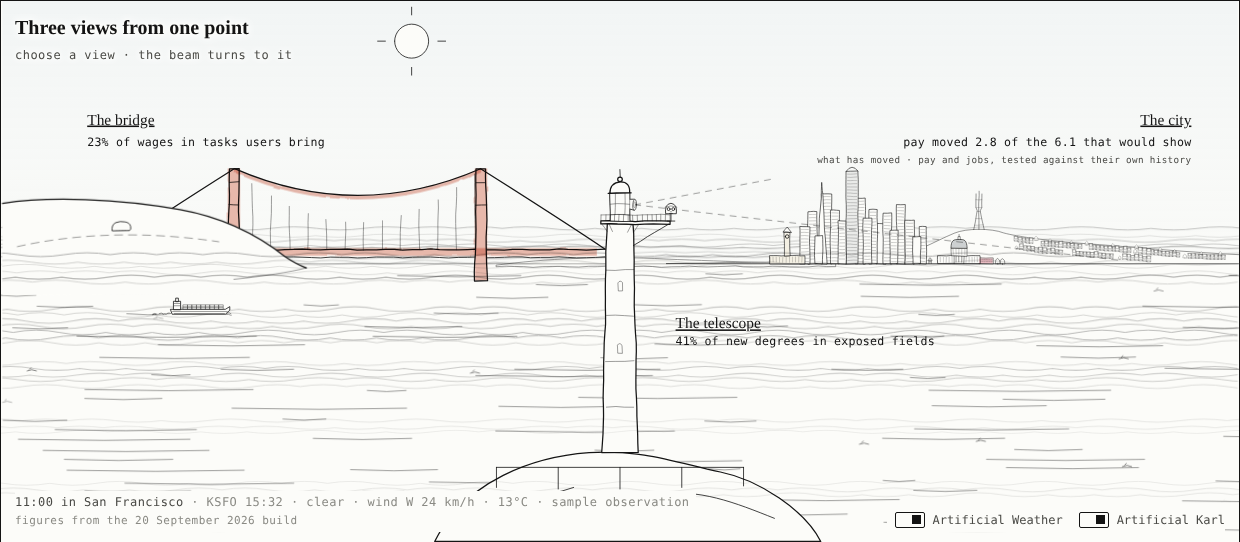
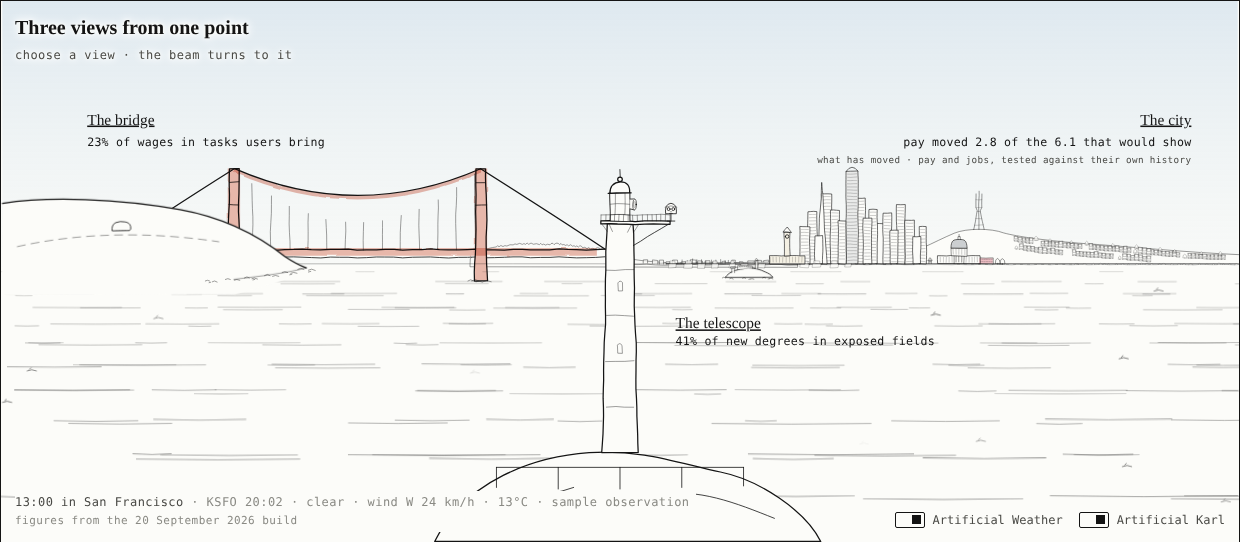
Front page: the Presidio bluff and the Marina joining the bridge to the city; Alcatraz in the middle distance; the bay in perspective; piers, seawall and a rocky shore at the city's foot; red lights for aircraft on Sutro, the pyramid, the tallest tower and the bridge towers, white lights on Alcatraz

diff --git a/docs/mockup/index.html b/docs/mockup/index.html
@@ -105,6 +105,13 @@ header.top{display:flex;align-items:baseline;justify-content:space-between;gap:1
 .stage:not([data-view="home"]) .fg .hot,.stage[data-view="valley"] .beam{display:none}
 .stage:not([data-view="home"]) .beam path{opacity:.4}
 .halo{fill:var(--gold);stroke:none;opacity:0;transition:opacity .6s}
+.avlight,.shiplight{opacity:0}
+.dusk .avlight,.night .avlight{animation:av 2s steps(1) infinite}
+@keyframes av{0%{opacity:1}45%{opacity:.08}}
+.dusk .shiplight,.night .shiplight{animation:shipflash 5s steps(1) infinite}
+@keyframes shipflash{0%{opacity:1}10%{opacity:0}}
+.night .lens{animation:occult 4s ease-in-out infinite}
+@keyframes occult{0%,78%,100%{fill-opacity:1}86%{fill-opacity:.25}}
 .lens{fill:var(--paper)}.dusk .lens{fill:#FBE9B5}.night .lens{fill:#FFF2C2;filter:url(#lamp)}
 .nightlight{opacity:0;transition:opacity 1.2s}
 .dusk .nightlight{opacity:.45}
@@ -365,9 +372,11 @@ header.top{display:flex;align-items:baseline;justify-content:space-between;gap:1
   /* ---------- line work ---------- */
   function water(g, x0, x1, y0, y1, seed, dens){
     const r = rng(seed);
-    for (let y = y0; y < y1; y += dens){
-      for (let x = x0 + r()*300; x < x1; x += 340 + r()*420){ const l = 40 + r()*200; el("path", {d:`M${x} ${y + (r()-.5)*4} q ${l/2} 3 ${l} 0`}, g); }
-    }
+    for (let y = y0; y < y1; ){
+      const near = Math.max(0, Math.min(1, (y - 340)/360));                   // 0 at the horizon, 1 at the foot of the frame
+      for (let x = x0 + r()*300; x < x1; x += (180 + r()*260)*(.5 + near)){ const l = (40 + r()*200)*(.3 + near*1.1);
+        el("path", {d:`M${x.toFixed(1)} ${(y + (r()-.5)*4*near).toFixed(1)} q ${(l/2).toFixed(1)} ${(3*near).toFixed(1)} ${l.toFixed(1)} 0`, style:`opacity:${(.45 + near*.55).toFixed(2)}`}, g); }
+      y += dens*(.28 + near*1.5); }
   }
   function fog(g, bands, seed){
     const r = rng(seed);
@@ -486,9 +495,19 @@ header.top{display:flex;align-items:baseline;justify-content:space-between;gap:1
   (function crests(){ const r = rng(19); for (let i=0;i<12;i++){ const x = r()*W, y = 360 + r()*320; const c = el("path", {d:`M${x} ${y} q 6 -3 12 0 M${x+3} ${y-2} l 2 -2`, class:"crest thin"}, waterG); c.style.animationDelay = (-r()*4).toFixed(2) + "s"; c.style.animationDuration = (3 + r()*3).toFixed(2) + "s"; } })();
   // the Marin headland, near, drawn over the water so the bay ends at its foot; the road out to the point on it
   const headland = el("g", {}); waterG.parentNode.insertBefore(headland, fogG);
+  (function alcatraz(g){
+    // a steep-sided rock, flat on top, the long cellhouse along its crest, the lighthouse at its south end, the water tower low on the north
+    const P = "fill:var(--paper)";
+    el("path", {d:"M 934 358 L 937 353 L 941 351 L 944 347 L 950 346 L 953 342 L 972 341 L 976 343 L 983 344 L 987 348 L 991 350 L 994 354 L 998 358 Z", class:"thin", style:P}, g);
+    el("path", {d:"M 941 351 L 947 352 M 987 348 L 982 350 M 950 346 L 955 349", class:"hair"}, g);                  // ledges on the cliffs
+    el("path", {d:"M 954 342 L 954 336 L 972 336 L 972 341", class:"hair", style:P}, g);                              // the cellhouse
+    for (let u = 956; u < 971; u += 2.6) el("path", {d:`M ${u.toFixed(1)} 338.2 l 1.2 0`, class:"hair"}, g);
+    el("path", {d:"M 975 343 L 975.4 331 L 978.2 331 L 978.6 343 M 974.6 331 L 978.9 331 L 976.8 328.6 Z", class:"hair", style:P}, g);   // its lighthouse
+    el("path", {d:"M 943.5 347 L 943.5 342 M 947.5 347 L 947.5 342 M 942.5 342 L 948.5 342 L 948.5 339 L 942.5 339 Z", class:"hair", style:P}, g);   // the water tower on its legs
+  })(headland);
   // where something solid stands in the water, the water breaks around it, and keeps breaking
   (function foam(){
-    const g = $("#foam"), spots = [[620, 362, 1.2, "tower"], [612, 362, .9, "tower"], [394, 347, 1, "shore"], [372, 351, .9, "shore"], [348, 355, .9, "shore"], [322, 358, .8, "shore"], [298, 360, .8, "shore"], [270, 362, .7, "shore"]];
+    const g = $("#foam"), spots = [[620, 362, 1.2, "tower"], [612, 362, .9, "tower"], [940, 358, .5, "island"], [966, 358.5, .5, "island"], [992, 358, .5, "island"], [394, 347, 1, "shore"], [372, 351, .9, "shore"], [348, 355, .9, "shore"], [322, 358, .8, "shore"], [298, 360, .8, "shore"], [270, 362, .7, "shore"]];
     const draw = () => { const r = Math.random; let d = "";
       for (const [x, y, k] of spots){
         d += ` M ${(x - 9*k - r()*3).toFixed(1)} ${(y + .5).toFixed(1)} q ${(4*k).toFixed(1)} ${(-2.4*k - r()*1.2).toFixed(1)} ${(8*k).toFixed(1)} 0`;
@@ -519,7 +538,19 @@ header.top{display:flex;align-items:baseline;justify-content:space-between;gap:1
   fog(el("g", {style:"opacity:.5"}, $("#fognear")), [[545, 4, 3],[625, 5, 3]], 31);   // in front of the lighthouse, the boats and the whale
 
   // the Presidio's low shore at the Gate's south end, running on to the city
-  el("path", {d:"M 640 342 C 700 334, 780 330, 860 334 C 940 338, 1030 340, 1080 340 L 1080 344 L 640 344 Z", style:"fill:var(--paper)", class:"hair"}, far);
+  (function presidio(g){
+    const rr = rng(211);
+    // the bluff: rising out of the water just past the south tower, crowned with trees, then easing down to the Marina flats
+    let d = "M 606 344 L 606 334 C 614 326, 626 320, 640 318", x = 640;
+    const crown = u => u < 740 ? 318 - Math.sin((u-640)/100*Math.PI)*3 : 318 + (u-740)*.12;
+    while (x < 780){ const w = 3 + rr()*5; d += ` Q ${(x + w/2).toFixed(1)} ${(crown(x) - 1.5 - rr()*2.5).toFixed(1)} ${(x + w).toFixed(1)} ${crown(x + w).toFixed(1)}`; x += w; }
+    d += " C 800 334, 830 338, 870 339 L 1030 340 L 1030 344 Z";
+    el("path", {d, class:"hair", style:"fill:var(--paper)"}, g);
+    // the Marina: low buildings along the flat, a row of masts in the harbour, the seawall
+    for (let u = 830; u < 1010; u += 7 + rr()*6){ const h = 2 + rr()*3, w = 4 + rr()*4; el("path", {d:`M ${u.toFixed(1)} 340 L ${u.toFixed(1)} ${(340 - h).toFixed(1)} L ${(u + w).toFixed(1)} ${(340 - h).toFixed(1)} L ${(u + w).toFixed(1)} 340`, class:"hair", style:"fill:var(--paper)"}, g); }
+    for (let u = 880; u < 940; u += 4 + rr()*3) el("path", {d:`M ${u.toFixed(1)} 340 l 0 ${(-3 - rr()*3).toFixed(1)}`, class:"hair"}, g);
+    el("path", {d:"M 800 341.5 L 1030 341.5", class:"hair"}, g);
+  })(far);
   // the Gate, across the middle distance
   suspension(far, 300, 620, 322, 105, 70);
   tintRect(washes, 150, 320, 620, 10, "var(--orange)");                                              // the deck
@@ -578,6 +609,14 @@ header.top{display:flex;align-items:baseline;justify-content:space-between;gap:1
     // the hydrant on the Embarcadero, in front of the towers, where the robotaxi meets it
     el("path", {d:`M ${ox+HYD-3} ${gy} L ${ox+HYD-3} ${gy-14} Q ${ox+HYD} ${gy-18} ${ox+HYD+3} ${gy-14} L ${ox+HYD+3} ${gy} M ${ox+HYD-6} ${gy-9} L ${ox+HYD+6} ${gy-9} M ${ox+HYD-3} ${gy-5} L ${ox+HYD+3} ${gy-5}`, class:"thin"}, g);
     // Ferry Building on the waterfront
+    { const rf = rng(131), P = "fill:var(--paper)";
+      el("path", {d:`M ${ox-40} ${b0+3} L ${ox+1580} ${b0+3}`, class:"hair"}, g);                                  // the seawall's face
+      for (let u = 1060; u < 1560; u += 34 + rf()*16){ if (Math.abs(u - 1240) < 40) continue; const w = 16 + rf()*8, l = 8 + rf()*6;   // piers, running out into the water
+        el("path", {d:`M ${ox+u} ${b0} L ${ox+u+w} ${b0} L ${ox+u+w+2} ${b0+l} L ${ox+u+2} ${b0+l} Z`, class:"hair", style:P}, g);
+        if (rf() < .6) el("path", {d:`M ${ox+u+3} ${b0} L ${ox+u+3} ${b0-7} L ${ox+u+w-3} ${b0-7} L ${ox+u+w-3} ${b0}`, class:"hair", style:P}, g); }
+      for (let u = -30; u < 420; u += 10 + rf()*14){ const w = 5 + rf()*7, h = 2 + rf()*3;                          // where the hills reach the water: rocks, and a strip of beach
+        el("path", {d:`M ${ox+u} ${b0+3} q ${w*.3} ${-h} ${w*.6} ${-h*.8} q ${w*.3} ${h*.2} ${w*.4} ${h*.8}`, class:"hair", style:P}, g); }
+      el("path", {d:`M ${ox+420} ${b0+2} C ${ox+520} ${b0+4}, ${ox+640} ${b0+4}, ${ox+760} ${b0+2}`, class:"hair", "stroke-dasharray":"2 5"}, g); }
     el("path", {d:`M ${ox+1190} ${baseY-8} L ${ox+1190} ${baseY-30} L ${ox+1290} ${baseY-30} L ${ox+1290} ${baseY-8} Z`, style:"fill:var(--paper)"}, g);
     for (let x=ox+1198; x<ox+1290; x+=9) el("path", {d:`M${x} ${baseY-26} L ${x} ${baseY-12}`, class:"hair"}, g);
     el("path", {d:`M ${ox+1232} ${baseY-30} L ${ox+1232} ${baseY-96} L ${ox+1248} ${baseY-96} L ${ox+1248} ${baseY-30} Z M ${ox+1229} ${baseY-96} L ${ox+1251} ${baseY-96} L ${ox+1240} ${baseY-110} Z`, style:"fill:var(--paper)"}, g);
@@ -629,9 +668,21 @@ header.top{display:flex;align-items:baseline;justify-content:space-between;gap:1
     el("ellipse", {cx:ox+1057, cy:baseY-276, rx:22, ry:16, class:"nightlight", filter:"url(#glow)", style:"fill:#9FB7C9;stroke:none"}, L);
     tintRect(L, ox+1041, baseY-290, 32, 30, "#9FB7C9").classList.add("nightlight");
     const grid = el("g", {class:"nightlight"}, L); const r = rng(59);
+    // red lights for aircraft: Sutro's three masts, the pyramid's tip, the tallest tower's crown; each blinks steadily, out of step with the others
+    const red = (g_, x, y, r = 3) => { const c = el("circle", {cx:x, cy:y, r, class:"avlight lamp", style:"fill:#FF2A1F;stroke:none"}, g_);
+      c.style.animationDuration = (1.8 + Math.random()*.7).toFixed(2) + "s"; c.style.animationDelay = (-Math.random()*3).toFixed(2) + "s"; };
+    red(L, ox+700, baseY-104-108); red(L, ox+692, baseY-104-100, 2.6); red(L, ox+708, baseY-104-100, 2.6);
+    red(L, ox+1142, baseY-238); red(L, ox+1057, baseY-282);
     for (let i=0;i<4;i++) for (let j=0;j<5;j++){ const b = el("rect", {x:ox+1044+i*7, y:baseY-286+j*6, width:5, height:4, class:"crownblock", style:`fill:#9FB7C9;stroke:none`}, grid); b.style.animationDelay = (-r()*9).toFixed(1) + "s"; }
   }
   drawLights(new Date());
+  // on the bridge's two tower tops, red for aircraft; on Alcatraz, a white light for ships
+  (function sceneLights(){
+    const g = el("g", {}, $("#L-lights .zoom"));
+    for (const x of [300, 620]) for (const dx of [-5, 5]){ const c = el("circle", {cx:x + dx, cy:215, r:1.6, class:"avlight lamp", style:"fill:#FF2A1F;stroke:none"}, g);
+      c.style.animationDuration = (1.9 + Math.random()*.6).toFixed(2) + "s"; c.style.animationDelay = (-Math.random()*3).toFixed(2) + "s"; }
+    const a = el("circle", {cx:976.8, cy:330.4, r:1.4, class:"shiplight lamp", style:"fill:#FFFFFF;stroke:none"}, g); a.style.animationDelay = (-Math.random()*5).toFixed(2) + "s";
+  })();
 
   /* ---------- the coin viewer, small and large ---------- */
   function viewer(g, s){
@@ -993,15 +1044,22 @@ header.top{display:flex;align-items:baseline;justify-content:space-between;gap:1
   const LABELS = [[90, 100, 600, 222], [990, 100, 1570, 222]];
   // The sky's own colour: the faintest wash, blue by day, warm at the horizon around dawn and dusk, a deep
   // blue at night. Each is a pair of stops keyed to the sun's altitude and blended between the keys.
+  // by the sun's height: pale and hazy low in the sky, fuller and deeper blue overhead as it climbs
   const SKYKEYS = [[-18, ["#1B2238", .3, "#1B2238", .12]], [-7, ["#7A7CA6", .2, "#E9A27A", .16]], [-1, ["#C4BEDD", .2, "#F2B48C", .22]],
-                   [6, ["#BFD3E6", .16, "#F4C9A6", .1]], [16, ["#BFD3E6", .16, "#DCE7EF", .06]]];
+                   [6, ["#BFD3E6", .15, "#F4C9A6", .1]], [18, ["#B6CEE4", .17, "#E4ECF1", .06]], [34, ["#9DBFDF", .22, "#D6E4EE", .07]], [58, ["#86B0DA", .27, "#CADDEC", .08]]];
   function hexLerp(a, b, t){ const A = a.match(/\w\w/g).map(h=>parseInt(h,16)), B = b.match(/\w\w/g).map(h=>parseInt(h,16)); return "#" + A.map((v,i)=>Math.round(v + (B[i]-v)*t).toString(16).padStart(2,"0")).join(""); }
-  function skyColour(sun){
+  function skyColour(sun, key){
     const a = Math.max(SKYKEYS[0][0], Math.min(SKYKEYS[SKYKEYS.length-1][0], sun.alt)); let i = 0; while (i < SKYKEYS.length-2 && a > SKYKEYS[i+1][0]) i++;
     const [a0, k0] = SKYKEYS[i], [a1, k1] = SKYKEYS[i+1], t = (a - a0)/(a1 - a0);
     const top = $("#sky-top"), low = $("#sky-low");
     top.setAttribute("stop-color", hexLerp(k0[0], k1[0], t)); top.setAttribute("stop-opacity", (k0[1] + (k1[1]-k0[1])*t).toFixed(3));
     low.setAttribute("stop-color", hexLerp(k0[2], k1[2], t)); low.setAttribute("stop-opacity", (k0[3] + (k1[3]-k0[3])*t).toFixed(3));
+    // late in the day, a little warmth low down
+    if (sun.az > 180 && sun.alt > 6 && sun.alt < 30){ const w = 1 - (sun.alt - 6)/24; low.setAttribute("stop-color", hexLerp(low.getAttribute("stop-color"), "#F1DCC4", .5*w)); }
+    // then the weather: overcast lifts the sky toward a pale white-grey, a storm or rain lowers it to grey; light cloud keeps the day's blue
+    const over = { overcast:["#E7E7E3", .6, .1], fog:["#ECECE8", .6, .12], "thick fog":["#EFEFEC", .8, .14], rain:["#A9ADB2", .6, .24], storm:["#7E858E", .85, .34] }[key];
+    if (over && sun.alt > -6){ const [c, f, op] = over;
+      for (const st of [top, low]){ st.setAttribute("stop-color", hexLerp(st.getAttribute("stop-color"), c, f)); st.setAttribute("stop-opacity", Math.max(+st.getAttribute("stop-opacity"), op).toFixed(3)); } }
   }
   let current = { preset:"fog", rainLevel:0 };
   function drawSky(o, view){
@@ -1035,7 +1093,7 @@ header.top{display:flex;align-items:baseline;justify-content:space-between;gap:1
     const now = sfNow(), sun = sunPosition(now), phase = moonPhase(now), moon = sunPosition(now, phase*360, Math.cos(phase*2*Math.PI));
     document.querySelectorAll(".sunwash,.dawn,.sun,.moon").forEach(n=>n.remove());
     const night = sun.alt < -6, dusk = !night && sun.alt < 4;
-    skyColour(sun);
+    skyColour(sun, key);
     document.documentElement.dataset.theme = night ? "dark" : "light";
     stage.classList.toggle("night", night); stage.classList.toggle("dusk", dusk);
     drawLights(now);
@@ -1205,13 +1263,14 @@ header.top{display:flex;align-items:baseline;justify-content:space-between;gap:1
       const dome = el("circle", {cx:2, cy:-18, r:1.2, class:"solid"}, car); let d = 0; const spin = setInterval(()=>{ dome.setAttribute("cx", 2 + Math.cos(d+=.6)*3); }, 80);
       // the water, from the drawn hydrant's cap, pouring toward the car
       const spout = el("g", {class:"thin", transform:`translate(${hx},${hy}) scale(${-k},${k})`}, life); spout.style.opacity = 0;
-      const sprayD = i => { const j = .85 + Math.random()*.3, h = (14 + i*3)*j, r = (14 + i*4)*(.9 + Math.random()*.2); return `M0 -17 q ${(r*.45).toFixed(1)} ${(-h).toFixed(1)} ${r.toFixed(1)} ${(-2 + i*2).toFixed(1)} M${(r + Math.random()*2).toFixed(1)} ${(-1 + i*2 + Math.random()*3).toFixed(1)} l ${(Math.random()*1.5).toFixed(1)} ${(2 + Math.random()*2).toFixed(1)}`; };
+      let flow = 1;
+      const sprayD = i => { const j = (.85 + Math.random()*.3)*flow, h = (14 + i*3)*j, r = (14 + i*4)*(.9 + Math.random()*.2)*(.35 + .65*flow); return `M0 -17 q ${(r*.45).toFixed(1)} ${(-h).toFixed(1)} ${r.toFixed(1)} ${(-2 + i*2).toFixed(1)} M${(r + Math.random()*2).toFixed(1)} ${(-1 + i*2 + Math.random()*3).toFixed(1)} l ${(Math.random()*1.5).toFixed(1)} ${(2 + Math.random()*2).toFixed(1)}`; };
       const arcs = []; for (let i=0;i<9;i++) arcs.push(el("path", {d:sprayD(i)}, spout));
       const spray = setInterval(()=>{ if (!spout.isConnected) return clearInterval(spray); arcs.forEach((a, i) => a.setAttribute("d", sprayD(i))); }, 110);
       const stop = hx + 20*S;
       const drive = 11000*(.85 + Math.random()*.3);
-      tween(drive, k=>{ const x = x0 + Math.min(k*1.12, 1)*(stop-x0); const bump = k > .89 ? Math.sin((k-.89)*70)*2.5*(1-k)/.11 : 0; g.setAttribute("transform", `translate(${x+bump},${y})`); if (k > .86) car.classList.add("braking"); if (k > .89) spout.style.opacity = Math.min(1, (k-.89)*12); },
-        ()=>{ tween(2200, k=>{ spout.style.opacity = 1; }, ()=>{ tween(900, k=>{ car.setAttribute("transform", `scale(${S*(1 - 2*k)}, ${S})`); }, ()=>{ car.classList.remove("braking"); tween(6000, k=>{ g.setAttribute("transform", `translate(${stop + k*k*(1700-stop)},${y})`); spout.style.opacity = 1 - k; }, ()=>{ clearInterval(spin); g.remove(); spout.remove(); }); }); }); });
+      tween(drive, k=>{ const x = x0 + Math.min(k*1.12, 1)*(stop-x0); const bump = k > .89 ? Math.sin((k-.89)*70)*2.5*(1-k)/.11 : 0; g.setAttribute("transform", `translate(${x+bump},${y})`); if (k > .86) car.classList.add("braking"); if (k > .89) spout.style.opacity = 1; },
+        ()=>{ tween(2200, k=>{ spout.style.opacity = 1; }, ()=>{ tween(900, k=>{ car.setAttribute("transform", `scale(${S*(1 - 2*k)}, ${S})`); }, ()=>{ car.classList.remove("braking"); tween(6000, k=>{ g.setAttribute("transform", `translate(${stop + k*k*(1700-stop)},${y})`); flow = Math.max(.05, 1 - k*1.05); }, ()=>{ clearInterval(spin); g.remove(); spout.remove(); }); }); }); });
       return drive + 9100; },
     bear(){ if (stage.dataset.view !== "bridge" || bearUp) return 0; bearUp = true;
       // up over the rock, a look one way and the other, and down again
@@ -1236,8 +1295,8 @@ header.top{display:flex;align-items:baseline;justify-content:space-between;gap:1
       el("path", {d:"M -1.5 -38 L -1.5 -4 L -17 -4 Z", style:P}, boat);
       el("circle", {cx:0, cy:-45, r:1.3, class:"carlight lamp", style:"fill:#FFFFFF;stroke:none"}, boat);
       el("circle", {cx:-20, cy:2, r:1.3, class:"carlight lamp", style:"fill:#FF3B30;stroke:none"}, boat);
-      const y = home ? 362 + Math.random()*100 : farLane ? 386 + Math.random()*16 : 520 + Math.random()*60, dur = (farLane ? 80000 : 60000) + Math.random()*24000, heel = 3 + Math.random()*4;
-      const sc = home ? .28 + (y - 362)/100*.22 : farLane ? .3 + Math.random()*.08 : .5 + Math.random()*.18, wk = wake(boat, 24, -18, 6.5), ltr = Math.random() < .5;
+      const y = home ? 374 + Math.random()*90 : farLane ? 386 + Math.random()*16 : 520 + Math.random()*60, dur = (farLane ? 80000 : 60000) + Math.random()*24000, heel = 3 + Math.random()*4;
+      const sc = home ? .3 + (y - 374)/90*.2 : farLane ? .3 + Math.random()*.08 : .5 + Math.random()*.18, wk = wake(boat, 24, -18, 6.5), ltr = Math.random() < .5;
       tween(dur, k=>{ const x = ltr ? -60 + k*1760 : 1660 - k*1760; g.setAttribute("transform", `translate(${x.toFixed(1)},${(y + Math.sin(k*34)*1.6).toFixed(1)}) scale(${ltr ? sc : -sc},${sc}) rotate(${-heel + Math.sin(k*23)*1.5})`); wk(performance.now()); }, ()=>g.remove()); },
     whale(){ const view = stage.dataset.view; if ((view !== "bridge" && view !== "home") || whaleUp) return 0;
       return EVENTS.fluke(null); },
@@ -1246,7 +1305,7 @@ header.top{display:flex;align-items:baseline;justify-content:space-between;gap:1
       let x, y;
       if (near){ x = near[0] + (Math.random() < .5 ? -1 : 1)*(40 + Math.random()*30)*near[2]; y = near[1] + (Math.random() - .5)*12; }
       else if (view === "bridge"){ x = 640 + Math.random()*360; y = 420 + Math.random()*90; }
-      else { do { x = 430 + Math.random()*1050; y = 360 + Math.random()*120; } while (x > 540 && x < 760); }
+      else { do { x = 430 + Math.random()*1050; y = 366 + Math.random()*114; } while ((x > 540 && x < 760) || (x > 900 && x < 1030 && y < 392)); }
       const sc = near ? near[2]*(.8 + Math.random()*.2) : view === "bridge" ? 1.4 + Math.random()*.4 : .7 + (y - 360)/120*.5, P = "fill:var(--paper)";
       WHALE_AT = [x, y, sc]; const cid = "whaleclip" + whaleUp;
       const defs = $("#L-life defs"); document.getElementById(cid)?.remove();
@@ -1298,8 +1357,8 @@ header.top{display:flex;align-items:baseline;justify-content:space-between;gap:1
       el("rect", {x:-49, y:-22, width:2.4, height:2, class:"carlight lamp", style:"fill:#F8DC8C;stroke:none"}, g);
       el("circle", {cx:-48, cy:-27, r:1.3, class:"carlight lamp", style:"fill:#FFFFFF;stroke:none"}, g);
       el("circle", {cx:69, cy:-6, r:1.3, class:"carlight lamp", style:"fill:#46C271;stroke:none"}, g);
-      const home = view === "home", y = home ? 356 + Math.random()*110 : 550 + Math.random()*35, dur = 70000 + Math.random()*20000;
-      const sc = home ? .42 + (y - 356)/110*.4 : 1.2 + Math.random()*.3, wk = wake(g, 66, -58, 9), dir = Math.random() < .5 ? 1 : -1;
+      const home = view === "home", y = home ? 376 + Math.random()*90 : 550 + Math.random()*35, dur = 70000 + Math.random()*20000;
+      const sc = home ? .5 + (y - 376)/90*.35 : 1.2 + Math.random()*.3, wk = wake(g, 66, -58, 9), dir = Math.random() < .5 ? 1 : -1;
       const drops = params.get("crate") === "1" || Math.random() < 1/3, at = params.get("crate") === "1" ? .28 : .35 + Math.random()*.3; let dropped = false;
       tween(dur, k=>{
         const x = dir > 0 ? -120 + k*1880 : 1720 - k*1880; g.setAttribute("transform", `translate(${x.toFixed(1)},${(y + Math.sin(k*18)*1.2).toFixed(1)}) scale(${dir*sc},${sc})`); wk(performance.now());
@@ -1328,6 +1387,8 @@ header.top{display:flex;align-items:baseline;justify-content:space-between;gap:1
       for (let i=0;i<5;i++) el("rect", {x:-10 + i*4.2, y:-6.5, width:2.6, height:2, class:"carlight", style:"fill:#F8DC8C;stroke:none"}, ship);
       el("circle", {cx:-6, cy:4, r:1.3, class:"carlight lamp", style:"fill:#FFF6D2;stroke:none"}, ship); el("circle", {cx:6, cy:4, r:1.3, class:"carlight lamp", style:"fill:#FFF6D2;stroke:none"}, ship);
       el("circle", {cx:0, cy:-15, r:1.1, class:"carlight lamp", style:"fill:#FFFFFF;stroke:none"}, ship);
+      if (outbound){ el("circle", {cx:12.5, cy:-1.5, r:1.3, class:"carlight lamp", style:"fill:#FF3B30;stroke:none"}, ship); el("circle", {cx:-12.5, cy:-1.5, r:1.3, class:"carlight lamp", style:"fill:#46C271;stroke:none"}, ship); }
+      else el("circle", {cx:0, cy:5.5, r:1.4, class:"carlight lamp", style:"fill:#FFFFFF;stroke:none"}, ship);
       let lastW = 0;
       tween(dur, k=>{
         const near = Math.pow(outbound ? k : 1 - k, 1.6), sc = .35 + near*2.6, x = px + (endX - px)*near, y = py + near*(760 - py);
